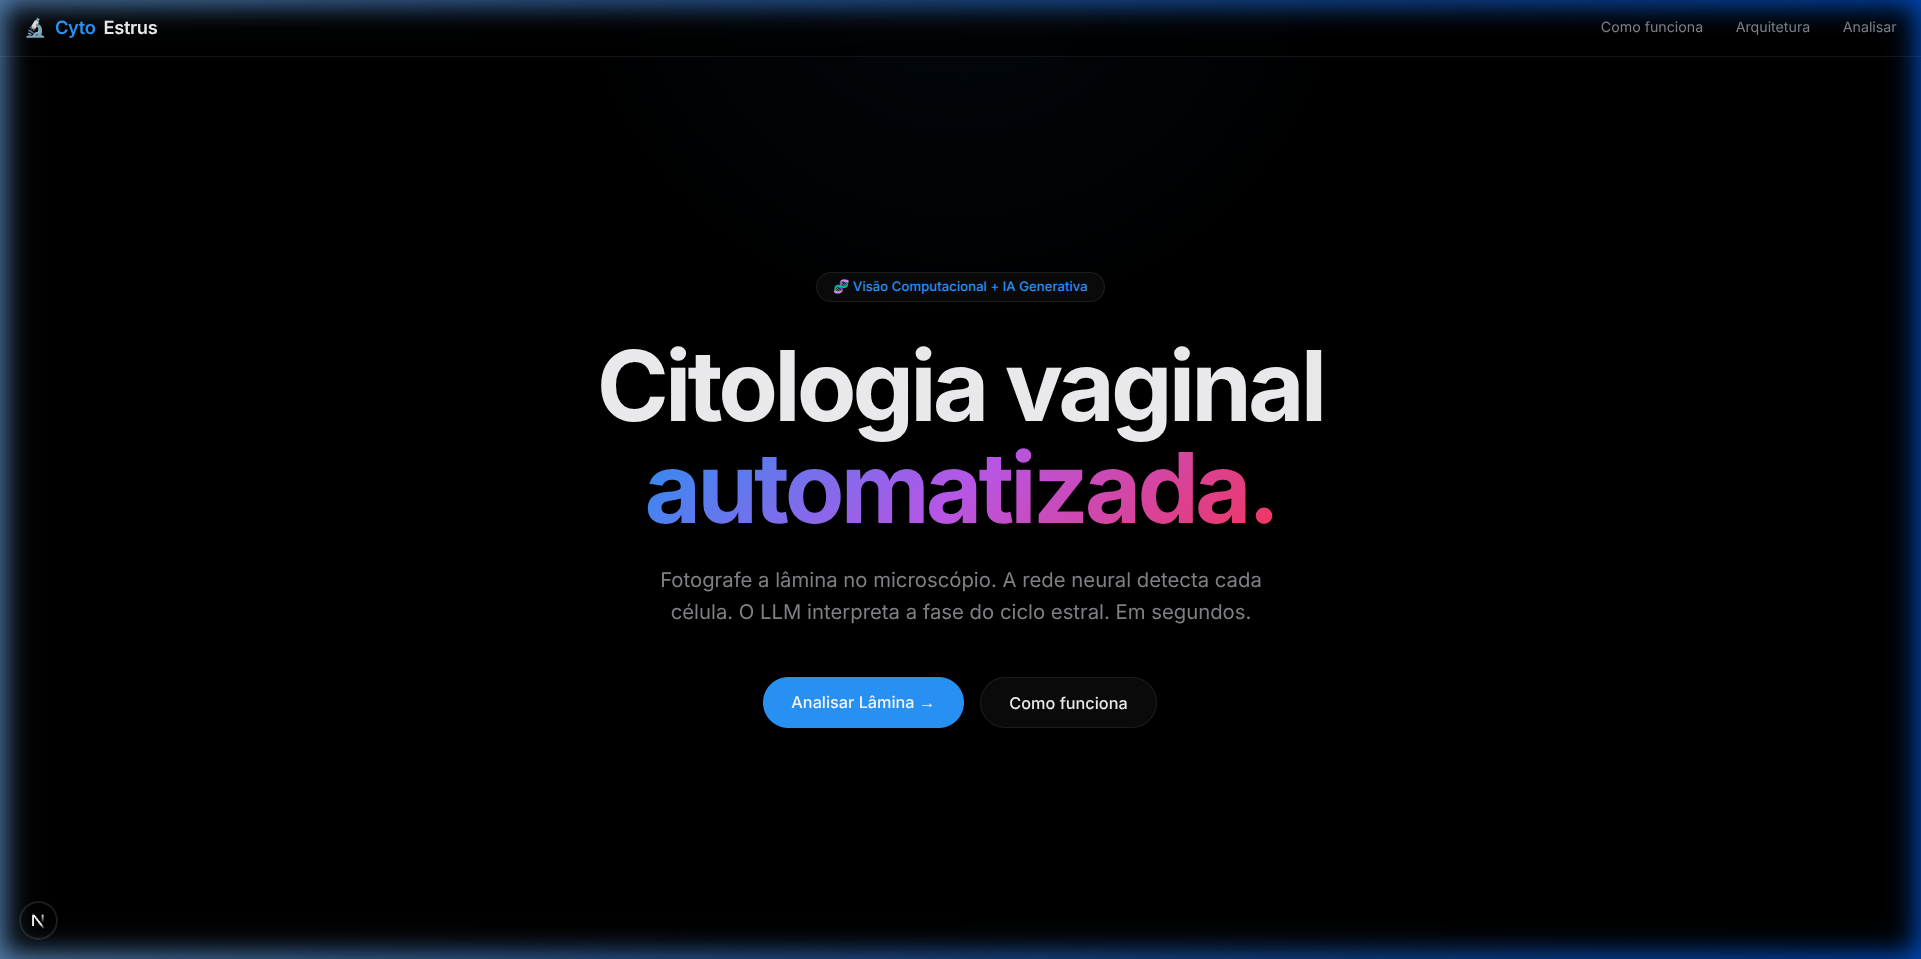
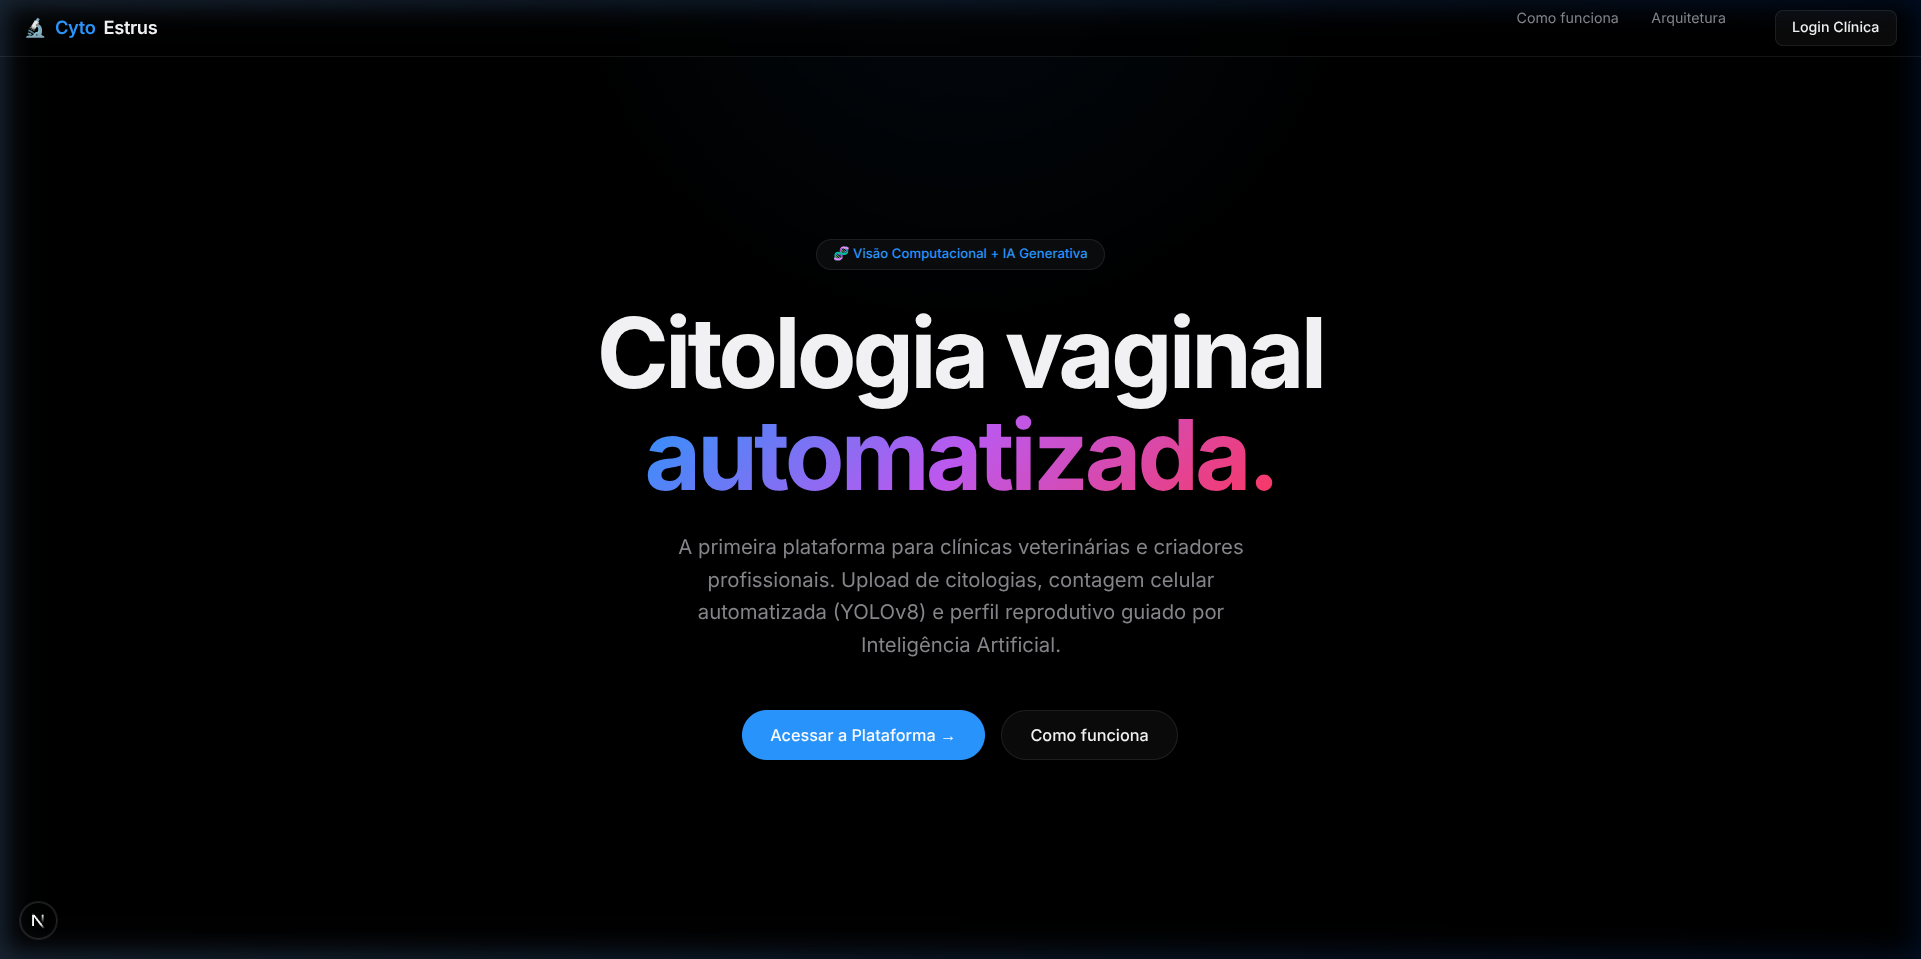
docs: update comprehensive README with commercial pitch, MVP architecture and real application screenshots

Changed region(s): [[0.0, 0.0, 1.0, 1.0], [0.3123, 0.2419, 0.6871, 0.8165]]

diff --git a/README.md b/README.md
@@ -55,21 +55,27 @@ O **CytoEstrus v2** é o primeiro sistema open-source que automatiza a leitura d
 
 ## <a name="screenshots"></a>📸 Screenshots
 
-### Landing Page
-![Landing Page](docs/screenshots/landing.png)
-
-### Features — Dois Estágios, Uma Resposta
-![Features](docs/screenshots/features.png)
-
-### Arquitetura do Pipeline
-![Arquitetura](docs/screenshots/architecture.png)
-
-### Upload — Drag & Drop
-![Upload](docs/screenshots/upload.png)
-
-### 🎬 Demo
-
+### 🎬 Como Funciona (Demo MVP)
 ![Demo CytoEstrus](docs/screenshots/demo.webp)
+
+### Plataforma Core
+![Dashboard](docs/screenshots/dashboard.png)
+
+### Gestão de Pacientes
+![Lista de Pacientes](docs/screenshots/pacientes.png)
+![Perfil e Histórico Reprodutivo](docs/screenshots/patient_detail.png)
+
+### Nova Análise e Upload
+![Fluxo de Análise](docs/screenshots/analise.png)
+
+### Galeria de Citologias
+![Galeria](docs/screenshots/galeria.png)
+
+### Landing Page & Login
+![Landing Page](docs/screenshots/landing.png)
+![Login Clínico](docs/screenshots/login.png)
+
+
 
 ---
 
